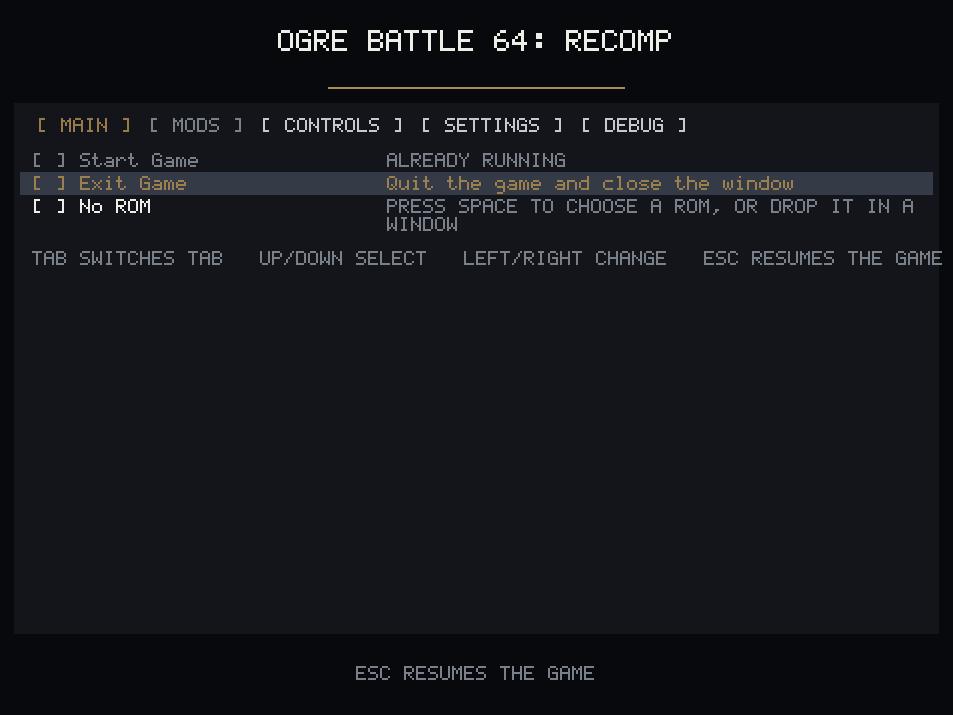
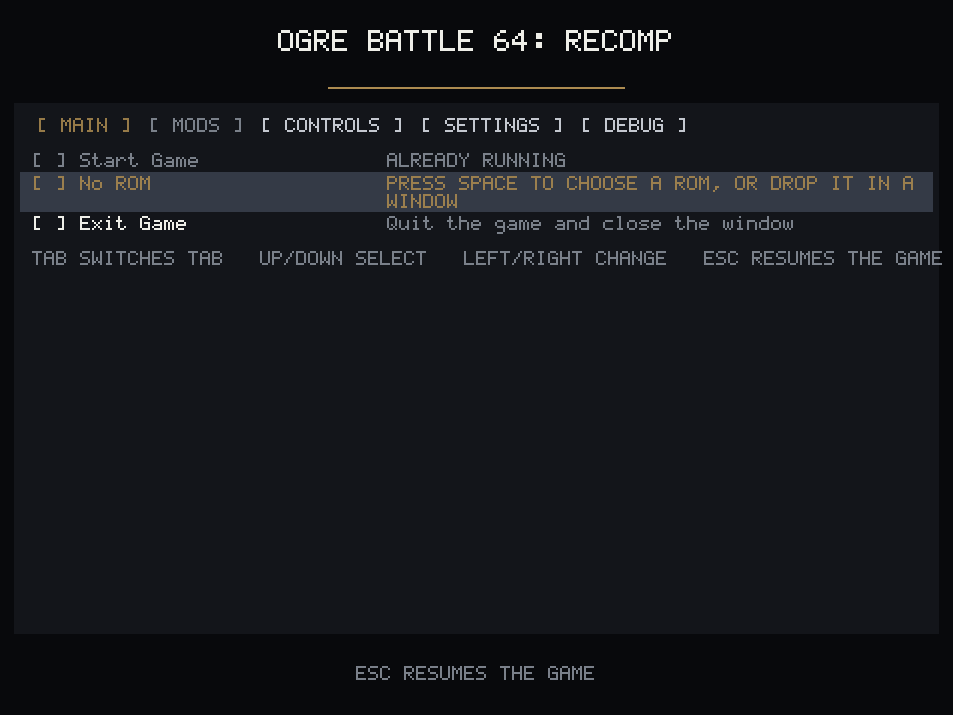
overlay adjustments

Changed region(s): [[0.0, 0.2462, 1.0, 0.3385]]

diff --git a/app/src/ui.cpp b/app/src/ui.cpp
@@ -545,10 +545,13 @@ std::vector<Panel::Row> Panel::build_rows(Tab tab) const {
     switch (tab) {
         case Tab::Main:
             // The ROM row lives here: with no ROM loaded it is the first
-            // selectable row, so the start screen can still pick one.
+            // selectable row, so the start screen can still pick one. EXIT GAME
+            // is last, so the row a stray SPACE or ENTER lands on is Start Game
+            // in the launcher and Exit Game in the overlay, whose Start Game row
+            // is not selectable.
             rows.push_back(Row{RowKind::StartGame, {}, 0, 0, -1});
-            rows.push_back(Row{RowKind::ExitGame, {}, 0, 0, -1});
             rows.push_back(Row{RowKind::Rom, {}, 0, 0, -1});
+            rows.push_back(Row{RowKind::ExitGame, {}, 0, 0, -1});
             break;
 
         case Tab::Mods:
@@ -624,6 +627,10 @@ bool Panel::selectable(size_t index) const {
 
 bool Panel::selected_is_rom() const {
     return selected_ < rows_.size() && rows_[selected_].kind == RowKind::Rom;
+}
+
+bool Panel::selected_is_exit() const {
+    return selected_ < rows_.size() && rows_[selected_].kind == RowKind::ExitGame;
 }
 
 Panel::RowKind Panel::row_kind(size_t index) const {

diff --git a/app/src/launcher.cpp b/app/src/launcher.cpp
@@ -527,6 +527,12 @@ std::filesystem::path run_launcher(const LauncherContext& context) {
                     if (ready_rom.empty() || panel.selected_is_rom()) {
                         browse_and_accept();
                     }
+                    // ENTER on Exit Game is the same as SPACE on it. The test
+                    // comes before the play, because ENTER means "start the game"
+                    // everywhere else on the tab.
+                    else if (panel.selected_is_exit()) {
+                        run_action(ui::RowAction::QuitGame);
+                    }
                     else {
                         play();
                         if (running) {

diff --git a/app/src/ui.hpp b/app/src/ui.hpp
@@ -155,6 +155,7 @@ public:
     void select_first();
     bool selectable(size_t index) const;
     bool selected_is_rom() const;
+    bool selected_is_exit() const;
     RowKind row_kind(size_t index) const;
     bool move(int delta);
 

diff --git a/docs/STATUS-LOG.md b/docs/STATUS-LOG.md
@@ -12,7 +12,7 @@ live under `config/` and `patches/` (session 97 moved them).
 
 ## Status by session (newest first)
 
-- ✅ **The overlay's second SDL window broke the game window's close button, and the panel's MAIN tab now carries EXIT GAME (session 110).** Two developer requests on macOS. (1) A fresh run closes on the title bar's X, but `Esc` open + `Esc` close then makes the X do nothing. The cause is SDL's own rule: `SDL_SendWindowEvent` synthesises `SDL_QUIT` from a window's `SDL_WINDOWEVENT_CLOSE` only while that window is the last one in SDL's global window list (`tools/SDL2-static/SDL2-2.32.10/src/events/SDL_windowevents.c:221-227`), and the overlay is a second SDL window that is hidden and shown again rather than destroyed, so the first time it is created the game window stops being last. `pump_sdl_events` (`app/src/sdl_platform.cpp`) now quits on a `SDL_WINDOWEVENT_CLOSE` whose `windowID` is the game window's and ignores one for the overlay window, where `Esc` is the dismiss. (2) `ui::Tab::Start` is `Tab::Main` (`MAIN`), `Panel::tab_enabled` enables every overlay tab except MODS, `RowKind::StartGame`/`RowKind::ExitGame` are the MAIN rows (Exit Game is the first selectable row in both modes), and `RowAction::QuitGame` replaces the unused `CloseOverlay`: the launcher stops its loop on it and the overlay records a request that `update_gfx` polls next to the window-close flag, so both exits share main.cpp's dumps and `ultramodern::quit`. Routing the overlay exit at the runtime exposed a pre-existing defect the overlay was the first thing to reach: `ultramodern::quit` while the game thread is still inside `ultramodern::preinit` (or while RT64 is still building its renderer) leaves `recomp::start` blocked in `game_thread.join()` forever, and once RT64 finishes initialising it instead throws out of the shutdown (`reason: std::terminate`); measured with temporary `[probe151]`/`[probeRT]` prints, both reverted. `main.cpp` now reads the game's own frame counter (`D_800AEFA4`, `0` at 6 s and `0x327` at 12 s of a boot) and, on an interactive exit before 60 frames, prints the same dumps and leaves with `_Exit(EXIT_SUCCESS)` instead of running the runtime's teardown — the rule `OGRE_EXIT_AFTER_MS` already uses. `OGRE_WINDOW_CLOSE_AT_MS=<n>` pushes a synthetic close event for scripted verification. Verified on `build-dist/ogrebattle64` (macOS): six exit paths (overlay EXIT GAME early and mid-run, window close at 9 s and 20 s with and without the overlay, `OGRE_EXIT_AFTER_MS`) all exit 0 with no `error.log`; `Down,Space` on MAIN never quits; launcher Exit Game quits without booting and Start Game still boots; all nine tab captures render; `OGRE_DUMP_RDRAM` still writes 8 MiB from the early path. Proofs refreshed, `native-launcher-main.png` and `native-overlay-main.png` added, `native-launcher-start.png` deleted. The runtime defect itself is not fixed (vendored `N64ModernRuntime`), only avoided. See `docs/HANDOFF-2026-09-27-session110.md`.
+- ✅ **The overlay's second SDL window broke the game window's close button, and the panel's MAIN tab now carries EXIT GAME (session 110).** Two developer requests on macOS. (1) A fresh run closes on the title bar's X, but `Esc` open + `Esc` close then makes the X do nothing. The cause is SDL's own rule: `SDL_SendWindowEvent` synthesises `SDL_QUIT` from a window's `SDL_WINDOWEVENT_CLOSE` only while that window is the last one in SDL's global window list (`tools/SDL2-static/SDL2-2.32.10/src/events/SDL_windowevents.c:221-227`), and the overlay is a second SDL window that is hidden and shown again rather than destroyed, so the first time it is created the game window stops being last. `pump_sdl_events` (`app/src/sdl_platform.cpp`) now quits on a `SDL_WINDOWEVENT_CLOSE` whose `windowID` is the game window's and ignores one for the overlay window, where `Esc` is the dismiss. (2) `ui::Tab::Start` is `Tab::Main` (`MAIN`), `Panel::tab_enabled` enables every overlay tab except MODS, `RowKind::StartGame`/`RowKind::ExitGame` are the MAIN rows (Exit Game is the MAIN tab's last row, after Start Game and the ROM row, so a stray SPACE or ENTER cannot reach it; `Panel::selected_is_exit()` makes ENTER on it quit instead of starting the game), and `RowAction::QuitGame` replaces the unused `CloseOverlay`: the launcher stops its loop on it and the overlay records a request that `update_gfx` polls next to the window-close flag, so both exits share main.cpp's dumps and `ultramodern::quit`. Routing the overlay exit at the runtime exposed a pre-existing defect the overlay was the first thing to reach: `ultramodern::quit` while the game thread is still inside `ultramodern::preinit` (or while RT64 is still building its renderer) leaves `recomp::start` blocked in `game_thread.join()` forever, and once RT64 finishes initialising it instead throws out of the shutdown (`reason: std::terminate`); measured with temporary `[probe151]`/`[probeRT]` prints, both reverted. `main.cpp` now reads the game's own frame counter (`D_800AEFA4`, `0` at 6 s and `0x327` at 12 s of a boot) and, on an interactive exit before 60 frames, prints the same dumps and leaves with `_Exit(EXIT_SUCCESS)` instead of running the runtime's teardown — the rule `OGRE_EXIT_AFTER_MS` already uses. `OGRE_WINDOW_CLOSE_AT_MS=<n>` pushes a synthetic close event for scripted verification. Verified on `build-dist/ogrebattle64` (macOS): six exit paths (overlay EXIT GAME early and mid-run, window close at 9 s and 20 s with and without the overlay, `OGRE_EXIT_AFTER_MS`) all exit 0 with no `error.log`; `Down,Space` on MAIN never quits; launcher Exit Game quits without booting and Start Game still boots; all nine tab captures render; `OGRE_DUMP_RDRAM` still writes 8 MiB from the early path. Proofs refreshed, `native-launcher-main.png` and `native-overlay-main.png` added, `native-launcher-start.png` deleted. The runtime defect itself is not fixed (vendored `N64ModernRuntime`), only avoided. See `docs/HANDOFF-2026-09-27-session110.md`.
 
 - ✅ **The browser build runs the game again, and the WebGL2 prototype is retired as the browser renderer route (session 109).** Developer question: the browser renderer was left unfinished when the project moved to the native port; can that work resume? Two defects blocked the wasm build and neither was in the renderer. `app/src/bank_overlays.cpp` included the native-only `sdl_platform.hpp` (added 2026-09-16 for the live console) and `sdl_platform.cpp` is not in the Emscripten source list, so `cmake --build build-wasm` failed on it; the include and its one call are now `#ifndef __EMSCRIPTEN__`. `app/src/main_web.cpp` registered `recomp::SaveType::None` while `app/src/main.cpp` registers `Sram`, so the game's first SRAM DMA (`base=0x08000000`) took the `!recomp::sram_allowed()` branch in `librecomp/src/pi.cpp:143`, printed `Attempted to use SRAM saving with other save type` and called `ULTRAMODERN_QUICK_EXIT()` at about 350 ms of boot. The runtime's host threads outlive that exit, so the page kept printing VI retraces and queue snapshots: `extbacklog` grew at 60/s, the `resumes` counters and `retrace(D_800C4BCC)` froze, and `running_queue` held `t200(pri5)`. That is an exited game, not the lost scheduler wakeup the first reading of the run suggested; the same tree's native null build submits 2100 display lists in a 20 s run at `OGRE_SPEED=4`. With the two fixes the build links (21 MB wasm), `debug/probes/boot.cjs` reports `RENDERED` (24840 non-black pixels; the title, `docs/proofs/web-title.png`), `debug/probes/progress.cjs` reaches `maxTasks=40 badWalk=no` with 1142 triangles and 5 unique combiners, and the recompiled audio microcode runs with the web layer muted until `?audio`. The WebGL2 prototype still cannot draw the game: `WebGLRenderer::send_dl` always runs the F3DEX2 walker and `app/src/gbi.hpp` reads `0xDA`/`0xDC` as `G_MTX`/`G_MOVEMEM`, which in an S2DEX2 list are the njpeg macroblock draw `G_OBJ_RECTANGLE_R` and `G_OBJ_MOVEMEM`; there is no YUV16 path (`grep -ci yuv app/src/web_renderer.cpp` is 0); and there is no RDRAM framebuffer indirection (`update_screen()` is empty, and scene `0x02` assembles its background from CPU copies of rendered framebuffers in RDRAM). The title's sprite layer draws and its 3D content and the menu screens render wrong (`docs/proofs/web-opening-broken.png`). Decision recorded in `docs/DECISIONS.md`: a browser renderer is scoped as RT64 with a WebGPU backend (plume has Vulkan, D3D12 and Metal backends and no WebGPU one; RT64's HLE and render layers are ~21000 lines of portable C++ and its 3.5k lines of shaders are HLSL), extending the 3380-line prototype was rejected because the framebuffer indirection is architectural, and the wasm target belongs in CI — it is not in CI, which is why it stayed broken for eleven days. See `docs/HANDOFF-2026-09-27-session109.md`.
 - ✅ **The published release shipped an empty `mods/` directory, and the packaging path now fails rather than warning (session 108).** Developer report from the releases page. The release does not run on a developer machine: the Actions variable `OGRE_DATA_REPO` is `lfarroco/ogre-recomp-private` (`gh variable list`), so `runs-on` takes the hosted branch and each job unpacks `files.tar.gz` from that private repository. Evidence at three points: `tools/data-bundle.sh`'s tar command named only `ogre-data.txt RecompiledFuncs Bank*Funcs RspFuncs app/src/bank_funcs.inc` and its `missing` check did not test for mods, so `tar tzf` on a clone of the bundle lists no `build/mods` and no `.nrm`; `gh release download v0.4.0 --pattern ogre-battle-64-recomp-macos-arm64.tar.gz` then `tar tzf` prints `ogre-battle-64-recomp/mods/` and `ogre-battle-64-recomp/mod_config/` as the only matches, both empty directories; and the `dist` recipe's copy step was `if ls build/mods/*.nrm >/dev/null 2>&1; then cp ...; else echo "no example mods in build/mods (run 'make example-mods' first)"; fi`, an `else` arm that exits 0, so the package was produced with an empty `mods/`. `tools/smoke-dist.sh` checked the binary, the README and (on Windows) the DLLs and never the directory's contents. Fixed at four layers: a new `dist-mods-check` target is a prerequisite of `dist` and fails with the `make example-mods` instruction when `build/mods/*.nrm` is absent (the copy is unconditional now); `tools/data-bundle.sh` requires `build/mods/*.nrm` and packs it, so the archive carries the mods the runner cannot build (no ROM, no `mips-linux-gnu-gcc`, and a macOS runner has no Linux container for `tools/build-example-mods.sh`'s Docker fallback); `tools/release-build.sh` checks for them before `make dist` so a stale bundle fails before the app build; the workflow's unpack step fails a bundle without them; and `tools/smoke-dist.sh` fails a package whose `mods/` holds no `.nrm`, which is the check that catches a release built from an old bundle. `packaging/README-dist.txt` had said "one example mod" and named only `skip-boot-logos.nrm`; session 103 added `exp-overflow` and `make dist` copies every `.nrm`, so it lists both. **Verified:** `bash -n` on the three scripts; with `build/mods` moved aside `make dist DIST_OS=macos` exits 2 with the new message and never reaches the app build, and `tools/release-build.sh` exits 1 with the bundle instruction; on the happy path `make dist` copies `exp-overflow.nrm` and `skip-boot-logos.nrm`; `tools/data-bundle.sh /tmp/ogre-bundle-check/files.tar.gz` reports `Example mods: 2 .nrm` and `tar tzf` lists both; `tools/smoke-dist.sh` PASSes with `the package carries 2 example mod(s)` and fails a copy with `mods/*.nrm` deleted; `ruby -ryaml` parses the workflow. **Open:** the published v0.4.0 assets still carry the empty directory, and the private `files.tar.gz` must be regenerated after this change is committed and a new tag published. See `docs/HANDOFF-2026-09-27-session108.md`.

diff --git a/docs/README.md b/docs/README.md
@@ -18,7 +18,7 @@ Technical documentation for the Ogre Battle 64 (USA, Rev A) PC port project.
 | [HANDOFF-2026-08-25-session9.md](HANDOFF-2026-08-25-session9.md) | Session 9 handoff: the `func_8019FC68` crash was a KMC shared-epilogue recompilation bug; N64Recomp now emits fall-through tail calls (with a static-function fixpoint); boot reaches real RT64 rendering (next crash in the RT64/Vulkan render thread). |
 | [HANDOFF-2026-08-29-session10.md](HANDOFF-2026-08-29-session10.md) | Session 10 handoff: VI-thread crash fixed; GBI question resolved (F3DEX2 auto-detection is correct); stable under Lavapipe. |
 | [HANDOFF-2026-08-29-session11.md](HANDOFF-2026-08-29-session11.md) | Session 11 handoff: WebAssembly port kickoff — RT64 optional, null renderer, web shell; native macOS boot fixed (stale ELF/funcs, missing runtime fixes, osSpGetStatus bridge, broken debug probe). |
-| [HANDOFF-2026-09-27-session110.md](HANDOFF-2026-09-27-session110.md) | **Latest.** Session 110 handoff — **the game window's close button stopped working once the Esc overlay had existed, and the panel's MAIN tab now carries EXIT GAME.** Two developer requests. (1) SDL synthesises `SDL_QUIT` from a window's `SDL_WINDOWEVENT_CLOSE` only while that window is the last one in SDL's global list (`SDL_windowevents.c:221-227`), and the overlay is a second SDL window that is hidden and shown again rather than destroyed, so the first time it is created the game window stops being last and the close button posts an event nothing turns into a quit. `pump_sdl_events` quits on a `SDL_WINDOWEVENT_CLOSE` whose `windowID` is the game window's and ignores one for the overlay, where `Esc` dismisses. (2) `ui::Tab::Start` is `Tab::Main`, MODS is the only overlay tab still disabled, the new `RowKind::ExitGame` is the MAIN tab's first selectable row in both modes, and `RowAction::QuitGame` replaces the unused `CloseOverlay`; the overlay records a request that `update_gfx` polls beside the window-close flag, so both exits share main.cpp's dumps and `ultramodern::quit`. Routing the overlay exit at the runtime exposed a pre-existing defect: `ultramodern::quit` while the game thread is still in `ultramodern::preinit` (or RT64 is still building its renderer) hangs `recomp::start` in `game_thread.join()` or throws out of the shutdown (`std::terminate`). An interactive exit before the game's frame counter (`D_800AEFA4`) reaches 60 now prints the same dumps and leaves with `_Exit`, the rule `OGRE_EXIT_AFTER_MS` already uses. `OGRE_WINDOW_CLOSE_AT_MS=<n>` pushes a synthetic close event. Verified on macOS: six exit paths exit 0 with no `error.log`, all nine tab captures render, and launcher Exit Game quits without booting. Proofs added `native-launcher-main.png` and `native-overlay-main.png`; `native-launcher-start.png` deleted. |
+| [HANDOFF-2026-09-27-session110.md](HANDOFF-2026-09-27-session110.md) | **Latest.** Session 110 handoff — **the game window's close button stopped working once the Esc overlay had existed, and the panel's MAIN tab now carries EXIT GAME.** Two developer requests. (1) SDL synthesises `SDL_QUIT` from a window's `SDL_WINDOWEVENT_CLOSE` only while that window is the last one in SDL's global list (`SDL_windowevents.c:221-227`), and the overlay is a second SDL window that is hidden and shown again rather than destroyed, so the first time it is created the game window stops being last and the close button posts an event nothing turns into a quit. `pump_sdl_events` quits on a `SDL_WINDOWEVENT_CLOSE` whose `windowID` is the game window's and ignores one for the overlay, where `Esc` dismisses. (2) `ui::Tab::Start` is `Tab::Main`, MODS is the only overlay tab still disabled, the new `RowKind::ExitGame` is the MAIN tab's last row (after Start Game and the ROM row), ENTER on it quits rather than starting the game (`Panel::selected_is_exit()`), and `RowAction::QuitGame` replaces the unused `CloseOverlay`; the overlay records a request that `update_gfx` polls beside the window-close flag, so both exits share main.cpp's dumps and `ultramodern::quit`. Routing the overlay exit at the runtime exposed a pre-existing defect: `ultramodern::quit` while the game thread is still in `ultramodern::preinit` (or RT64 is still building its renderer) hangs `recomp::start` in `game_thread.join()` or throws out of the shutdown (`std::terminate`). An interactive exit before the game's frame counter (`D_800AEFA4`) reaches 60 now prints the same dumps and leaves with `_Exit`, the rule `OGRE_EXIT_AFTER_MS` already uses. `OGRE_WINDOW_CLOSE_AT_MS=<n>` pushes a synthetic close event. Verified on macOS: six exit paths exit 0 with no `error.log`, all nine tab captures render, and launcher Exit Game quits without booting. Proofs added `native-launcher-main.png` and `native-overlay-main.png`; `native-launcher-start.png` deleted. |
 | [HANDOFF-2026-09-27-session109.md](HANDOFF-2026-09-27-session109.md) | Session 109 handoff — **the browser build runs the game again, and the renderer gap is measured.** Developer question: can the browser renderer work resume now the native builds play the game? Two defects blocked the wasm build and neither was in the renderer. `app/src/bank_overlays.cpp` included the native-only `sdl_platform.hpp` (2026-09-16, for the live console) and `sdl_platform.cpp` is not in the Emscripten source list, so `cmake --build build-wasm` failed; the include and its one call are now `#ifndef __EMSCRIPTEN__`. `app/src/main_web.cpp` registered `recomp::SaveType::None` while `app/src/main.cpp` registers `Sram`, so the game's first SRAM DMA (`base=0x08000000`) took `!recomp::sram_allowed()` in `librecomp/src/pi.cpp:143` and called `ULTRAMODERN_QUICK_EXIT()` at ~350 ms; the host threads outlive that exit, so the growing retrace backlog and the frozen `resume`/`retrace` counters looked like a lost scheduler wakeup. With the two fixes: `boot.cjs` reports `RENDERED` (24840 non-black pixels, the title, `docs/proofs/web-title.png`), `progress.cjs` reaches `maxTasks=40 badWalk=no`, and the audio microcode runs with the web layer muted until `?audio`. The WebGL2 prototype still cannot draw the game: no S2DEX2 (its F3DEX2 walker reads `0xDA`/`0xDC` as `G_MTX`/`G_MOVEMEM`; the njpeg macroblock draw is S2DEX2's `0xDA` `G_OBJ_RECTANGLE_R`), no YUV16, and no RDRAM framebuffer indirection (`update_screen()` is empty; scene `0x02` reads rendered framebuffers back from RDRAM), so the opening and menu screens render wrong (`docs/proofs/web-opening-broken.png`). Decision: the prototype is retired as the route, a browser renderer is scoped as RT64 + WebGPU, and the wasm target belongs in CI. |
 | [HANDOFF-2026-09-27-session108.md](HANDOFF-2026-09-27-session108.md) | Session 108 handoff — **the published release shipped an empty `mods/`.** Developer report from the releases page. The repo's `OGRE_DATA_REPO` variable is `lfarroco/ogre-recomp-private`, so the matrix runs on the hosted path and unpacks `files.tar.gz`; that bundle named only `RecompiledFuncs Bank*Funcs RspFuncs app/src/bank_funcs.inc`, and `tools/data-bundle.sh`'s check did not test for mods, so the runner had no `build/mods/`. The `dist` recipe's copy step was an `if ls build/mods/*.nrm; then cp; else echo "no example mods"; fi`, which exits 0, so the package was built with an empty `mods/`; `tools/smoke-dist.sh` never looked at the directory. Verified against the live artifacts: `tar tzf` on the v0.4.0 macOS archive prints only `ogre-battle-64-recomp/mods/`, and on a fresh clone of the private repo lists no `.nrm`. Fixed at four layers: `dist-mods-check` is a prerequisite of `dist` and fails without a `.nrm`; `data-bundle.sh` requires and packs `build/mods/*.nrm`; `release-build.sh` checks before the app build; the workflow's unpack step fails on a bundle without them; and `smoke-dist.sh` fails a package with no `.nrm`. `packaging/README-dist.txt` now lists both shipped mods (session 103 added `exp-overflow` and the text still said "one"). Verified: `make dist` fails (exit 2) with `build/mods` absent and copies both mods when present; `data-bundle.sh` reports `Example mods: 2 .nrm` and the archive carries them; smoke PASSes with `carries 2 example mod(s)` and fails on a copy with the `.nrm` deleted. **Still open:** the published v0.4.0 assets and the private `files.tar.gz` predate the rule; the bundle must be regenerated and a new tag published. |
 | [HANDOFF-2026-09-27-session107.md](HANDOFF-2026-09-27-session107.md) | Session 107 handoff — **the v0.4.0 Windows access violation is `plume::d3d12::D3D12CommandList::setSamplePositions(nullptr)`, and the presented-frame capture was on because `putenv` copies on Windows.** The report's `ogrebattle64.exe+0x10001AE` is the only `cmpb $1, 0x6C(%rdx)` in the shipped v0.4.0 exe (the same instruction is at RVA `0xFF8AC0` in rc4/rc5, `0xFF8ED0` in v0.3.0 and `0x10001A0` in v0.4.0), so the build is v0.4.0. The function reads `texture->desc.multisampling.sampleLocationsEnabled` at `+0x6C` (`desc` `+0x40`, `sampleCount` `+0x48`, `sampleLocations[16]` `+0x4C`, the TLS `std::vector<D3D12_SAMPLE_POSITION>` at `+0x770`), and only a `PlacedFootprint` (buffer) destination reaches it with a null, because `toD3D12` reads a subresource texture at `+0x40` first. The only footprint-destination calls are the port's own capture readbacks (`rt64_present_queue.cpp:547`/`:592`), and `init_capture_env`'s `putenv`-and-mangle trick does not hide the entry on the UCRT (`_putenv` copies the string and owns the copy), so the first present ran one. `init_capture_env` landed in `bb01fc6`, after v0.3.0, which matches the developer's "v0.3.0 worked". Fixed: `copyTextureRegion` skips sample positions for a non-texture destination; the capture path is app-owned (`ogre_present_capture_path()`) and `snap` toggles a flag, so nothing frees a string a present thread holds; `tools/smoke-dist.sh` fails a package whose capture is on. Verified on macOS (builds, smoke, boot battery, `snap` on/off, environment override); not verified on Windows. |

diff --git a/docs/HANDOFF-2026-09-27-session110.md b/docs/HANDOFF-2026-09-27-session110.md
@@ -31,12 +31,18 @@ grab: it was SDL's own `SDL_QUIT` rule.
 2. **MAIN + EXIT GAME.** `ui::Tab::Start` is `Tab::Main`, `tab_label` returns
    `MAIN`, and `Panel::tab_enabled` enables every tab in overlay mode except
    MODS (the runtime loads mods before it boots). `RowKind::Start` is
-   `RowKind::StartGame` and a new `RowKind::ExitGame` is the MAIN tab's first
-   selectable row in both modes, so the overlay's panel opens with Exit Game
-   selected. `RowAction::QuitGame` replaces the unused `RowAction::CloseOverlay`;
-   the launcher stops its loop on it, and the overlay records a request that
-   `update_gfx` polls next to the window-close flag, so both exits share main.cpp's
-   dumps and `ultramodern::quit`.
+   `RowKind::StartGame` and a new `RowKind::ExitGame` is the MAIN tab's last row,
+   after Start Game and the ROM row, so a stray `SPACE` or `ENTER` reaches it only
+   when the player has deliberately moved to it. `RowAction::QuitGame` replaces
+   the unused `RowAction::CloseOverlay`; the launcher stops its loop on it, and
+   the overlay records a request that `update_gfx` polls next to the
+   window-close flag, so both exits share main.cpp's dumps and
+   `ultramodern::quit`.
+3. **ENTER on Exit Game** (developer follow-up; ENTER is "start the game"
+   everywhere else on the tab, so it started the game over the Exit Game row).
+   `Panel::selected_is_exit()` joins `selected_is_rom()`, and the launcher's
+   ENTER handler tests it before its play branch, so it quits. The overlay never
+   had the bug: ENTER there goes through the same `activate` path as SPACE.
 
 ## What the exit work cost, and the runtime defect under it
 
@@ -103,7 +109,9 @@ with no `error.log`:
 | `OGRE_OVERLAY=1 OGRE_OVERLAY_TAB=main OGRE_OVERLAY_KEYS="Down,Space"` | runs to `OGRE_EXIT_AFTER_MS`; Down moves to No ROM and never quits |
 | `OGRE_DUMP_RDRAM` on the early path | writes the full 8388608 bytes |
 | all five launcher tabs (`OGRE_LAUNCHER_TAB`) and all four overlay tabs (`OGRE_OVERLAY_TAB`) | capture and exit 0 |
-| launcher `MAIN` with **Down, Space** | quits without booting (`closed without a ROM`); **Space** on Start Game still boots |
+| launcher `MAIN` with **Down, Down, Return** | quits without booting (`closed without a ROM`) |
+| launcher `MAIN` with **Return** on Start Game | still boots (regression check) |
+| overlay `MAIN` with **Return** | `[overlay] EXIT GAME`, exit 0 |
 | `OGRE_SMOKE=1` | `[smoke] main reached`, `sdl ok` |
 
 `OGRE_WINDOW_CLOSE_AT_MS=<n>` is added for this test: it pushes one
@@ -117,8 +125,8 @@ Proofs refreshed (macOS, from the same build):
 `-launcher-settings.png`, `-overlay-main.png` (new), `-overlay-controls.png`,
 `-overlay-settings.png`, `-widescreen-launcher.png`, `-widescreen-overlay.png`.
 The overlay MAIN capture shows `[ MAIN ] [ MODS ] …`, `[ ] Start Game  ALREADY
-RUNNING` (inert and skipped by the selection), `[ ] Exit Game` selected with
-`Quit the game and close the window`, and `[ ] No ROM`.
+RUNNING` (inert and skipped by the selection), `[ ] No ROM` selected, and
+`[ ] Exit Game  Quit the game and close the window` last.
 
 ## Files changed
 

diff --git a/docs/guides/app-build.md b/docs/guides/app-build.md
@@ -1793,8 +1793,10 @@ the same rows. There are five tabs:
 
 ```
 MAIN         Start Game starts the game ([ ] and not selectable until a ROM is
-             loaded), Exit Game quits, and the ROM row opens the file picker; the
-             row reads [x] ROM loaded with the file name, or [ ] No ROM
+             loaded), then the ROM row, which reads [x] ROM loaded with the file
+             name or [ ] No ROM and opens the file picker, then Exit Game, which
+             quits. Exit Game is last on purpose: it is the one row a stray
+             SPACE or ENTER must not land on.
 MODS         one row per mod, then one row per visible option of that mod; a
              mod's short description sits in a second column
 CONTROLS     one row per N64 button with its keyboard key, its gamepad source and
@@ -1813,7 +1815,7 @@ SPACE            activate the selected row: Start Game plays, Exit Game quits, t
                  steps, the GAME SPEED row steps, a binding row arms a rebind
 LEFT / RIGHT     step the selected option's or setting's value
 ENTER            play, or open the ROM picker when no ROM is loaded or the ROM
-                 row is selected
+                 row is selected; on Exit Game it quits, the same as SPACE
 mouse            click a tab to switch, a row to activate it, a GAME SPEED radio
                  marker to set that speed, elsewhere to play
 ```
